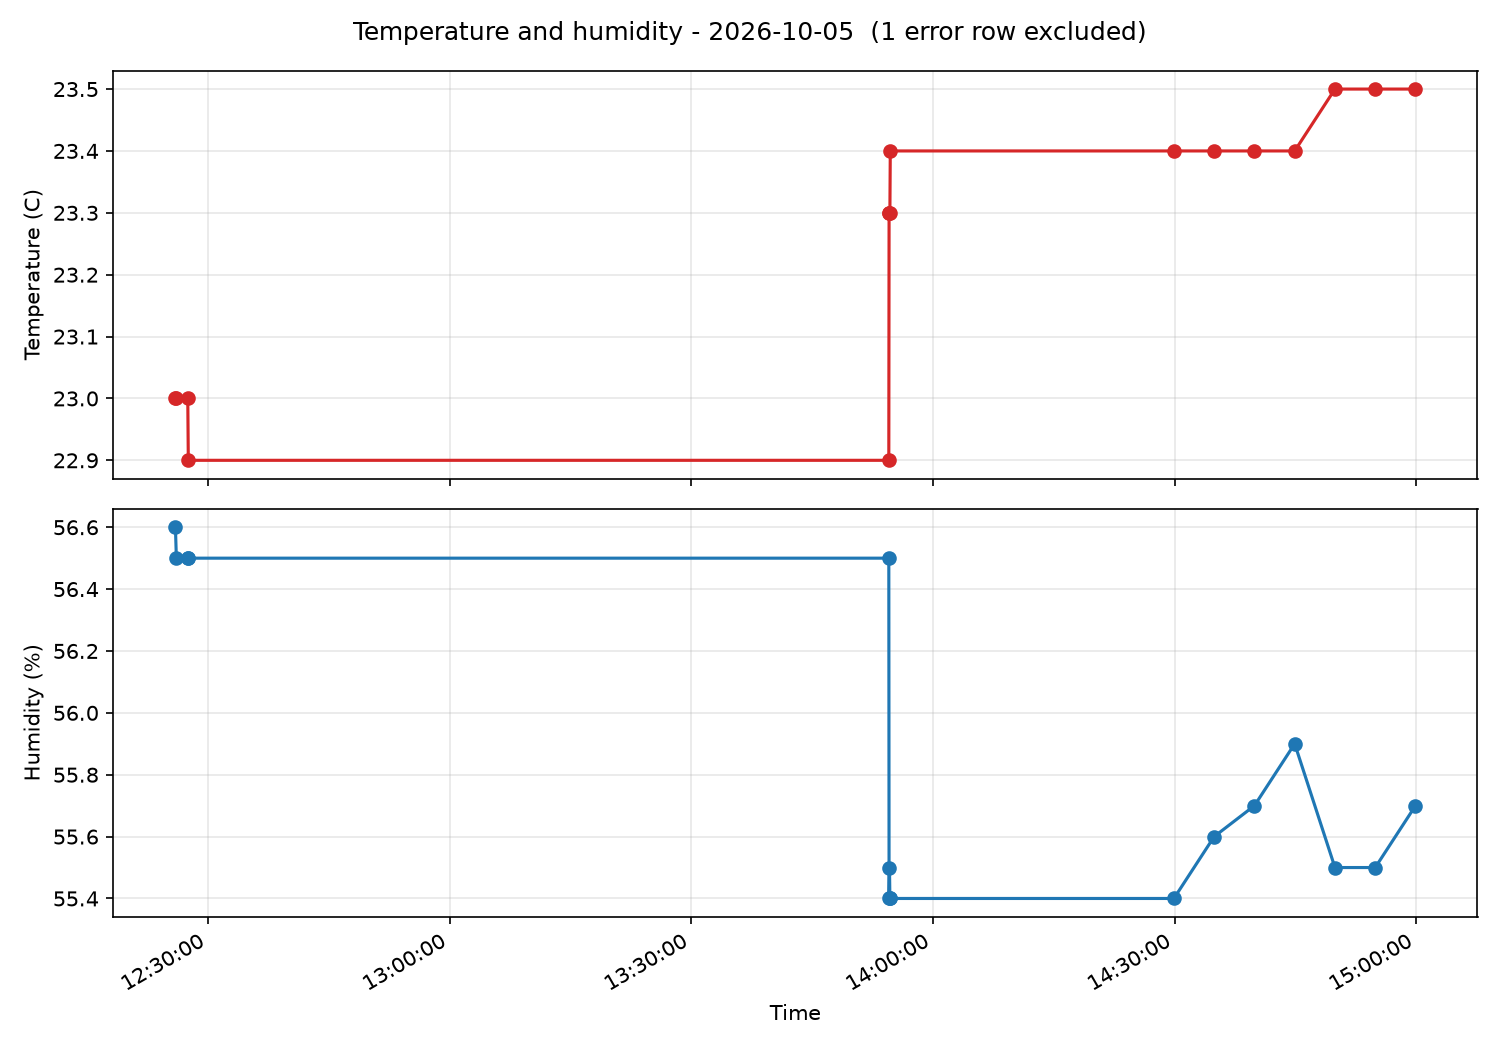
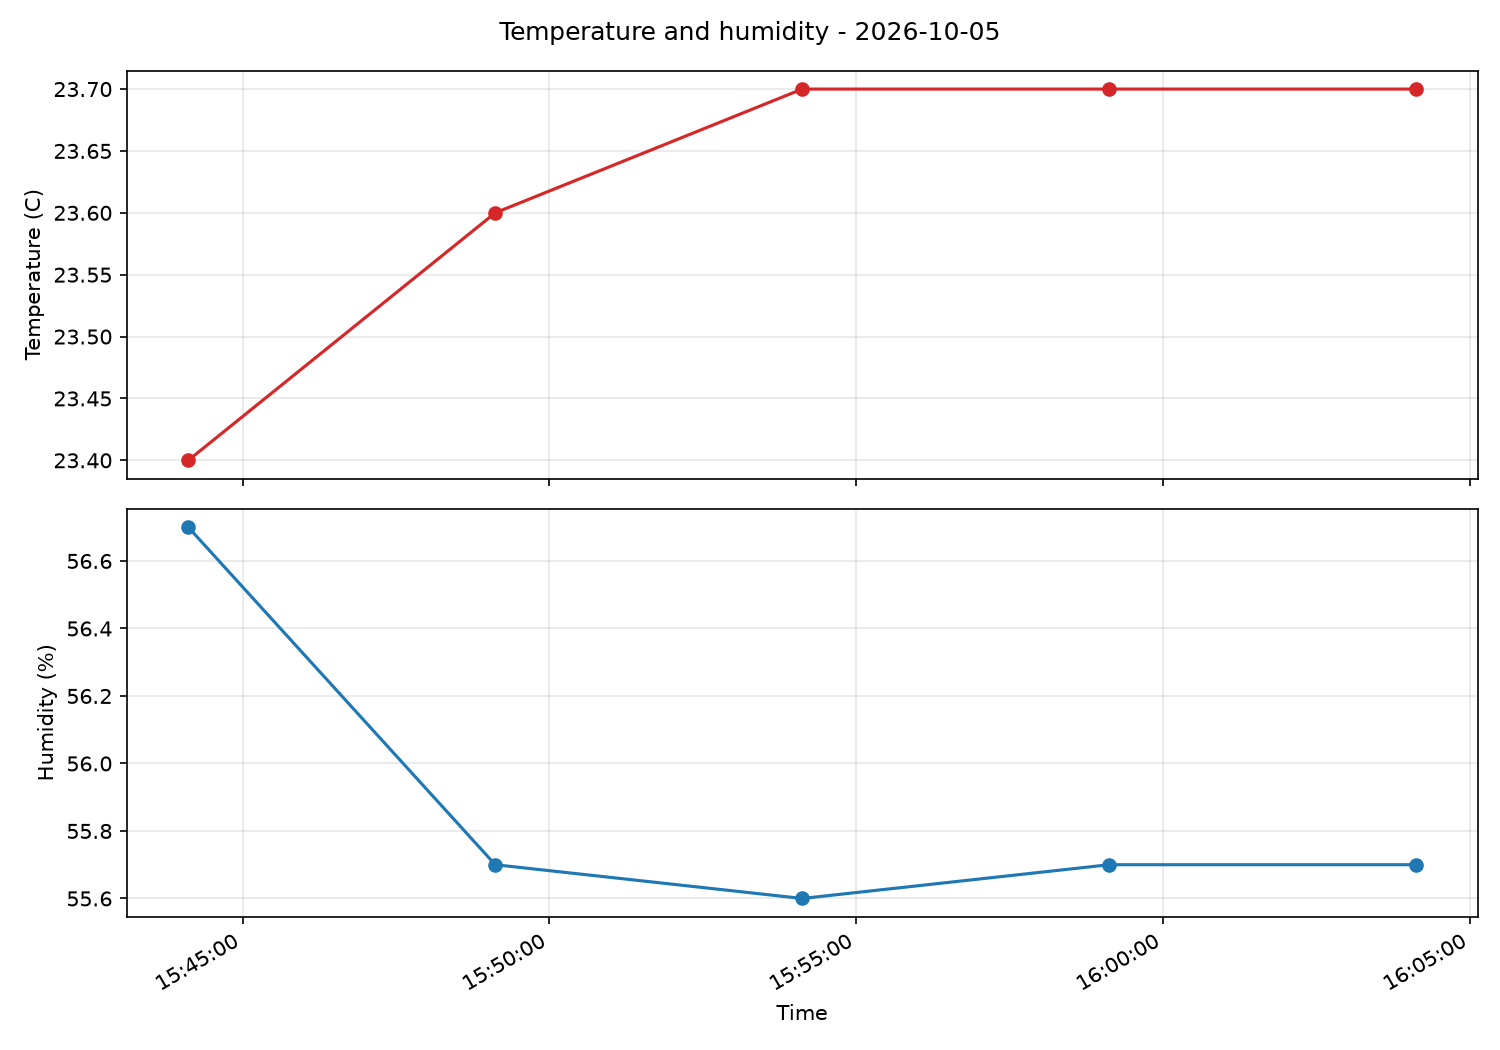
Updated README, TODO file. Updated nodeRed dicription in flows and clead files. Data is also send to email

diff --git a/README.md b/README.md
@@ -1,2 +1,63 @@
 # humiBox
-This project controlles the humidety in a box.
+humiBox is an automated humidity-control system for a box or enclosed environment. It uses a temperature and humidity sensor to monitor the conditions inside the box and Node-RED to control the system. The sensor data is continuously recorded, and a daily plot is automatically generated and sent by email.
+
+
+## How it works
+The system consists of a sensor, Python scripts, Node-RED, and a CSV data file.
+
+             +---------------------+
+             | Temperature /       |
+             | Humidity Sensor     |
+             +---------------------+
+                        |
+                        |
+             +---------------------+
+             | getTempHumSenor.py  |
+             |                     |
+             | Reads sensor data   |
+             +---------------------+
+                        |
+                        |
+             +---------------------+
+             |      Node-RED       |
+             |                     |
+             | Control & logging   |
+             +---------------------+
+                        |
+                        |
+             +---------------------+
+             |    measurements     |
+             |       (.csv)        |
+             +---------------------+
+                        |
+                  Every day 23:00
+                        |
+                        |
+             +---------------------+
+             | Python plot script  |
+             |                     |
+             | Creates daily plot  |
+             +---------------------+
+
+## Setup
+
+### 1. Clone the repository
+```
+git clone https://github.com/AxelDegrande/humiBox.git
+cd humiBox
+```
+### 2. Install Python dependencies
+
+Install the required Python packages:
+```
+pip install -r dependancies.txt
+```
+
+
+## Data format
+The measurement.csv contains following data:
+```
+time,temperature,humidity,status
+2026-10-05 15:44:07,23.4,56.7,running
+2026-10-05 15:49:07,23.6,55.7,running
+```

diff --git a/TODO.md b/TODO.md
@@ -1,3 +1,3 @@
 # TODO
-
-- Make a bash script that copys the NodeRED Project files to this repo
+- Change setpoint for moisture activation
+- Send the csv also as a second attachment to my email
